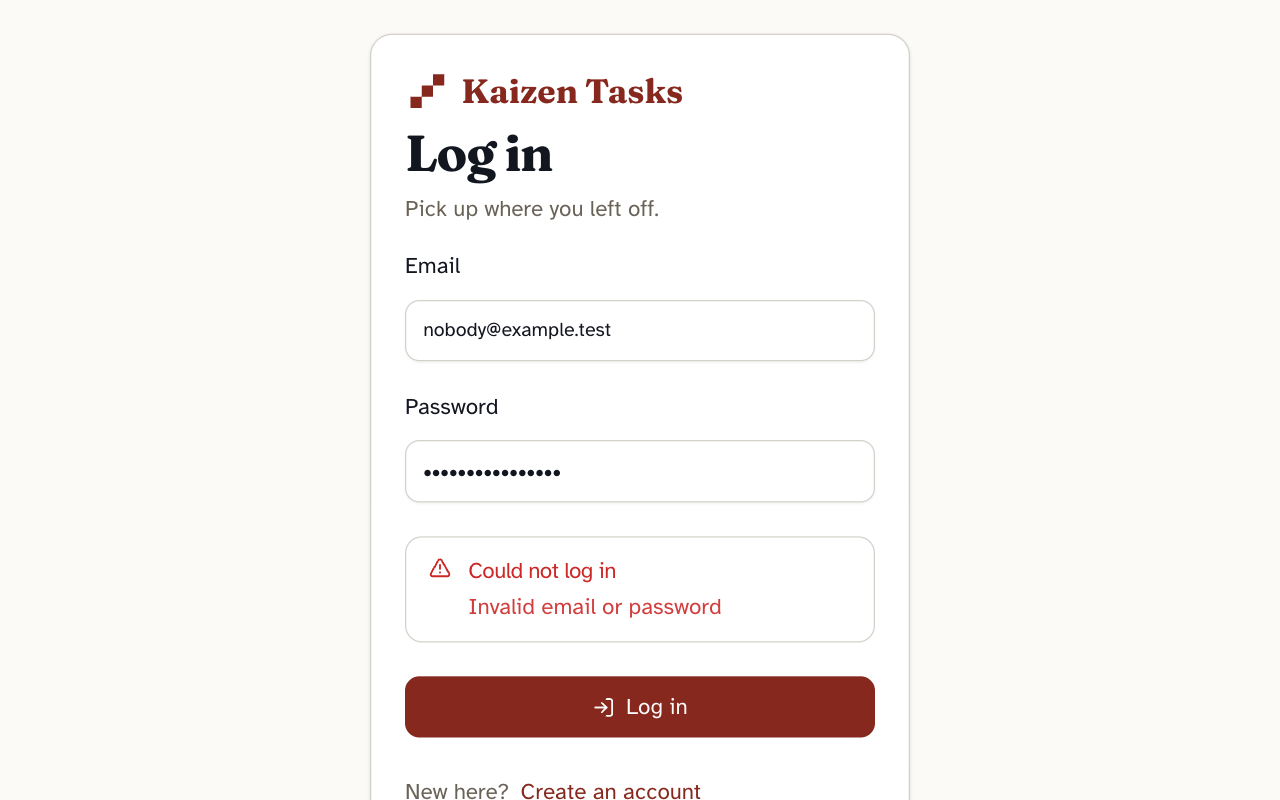
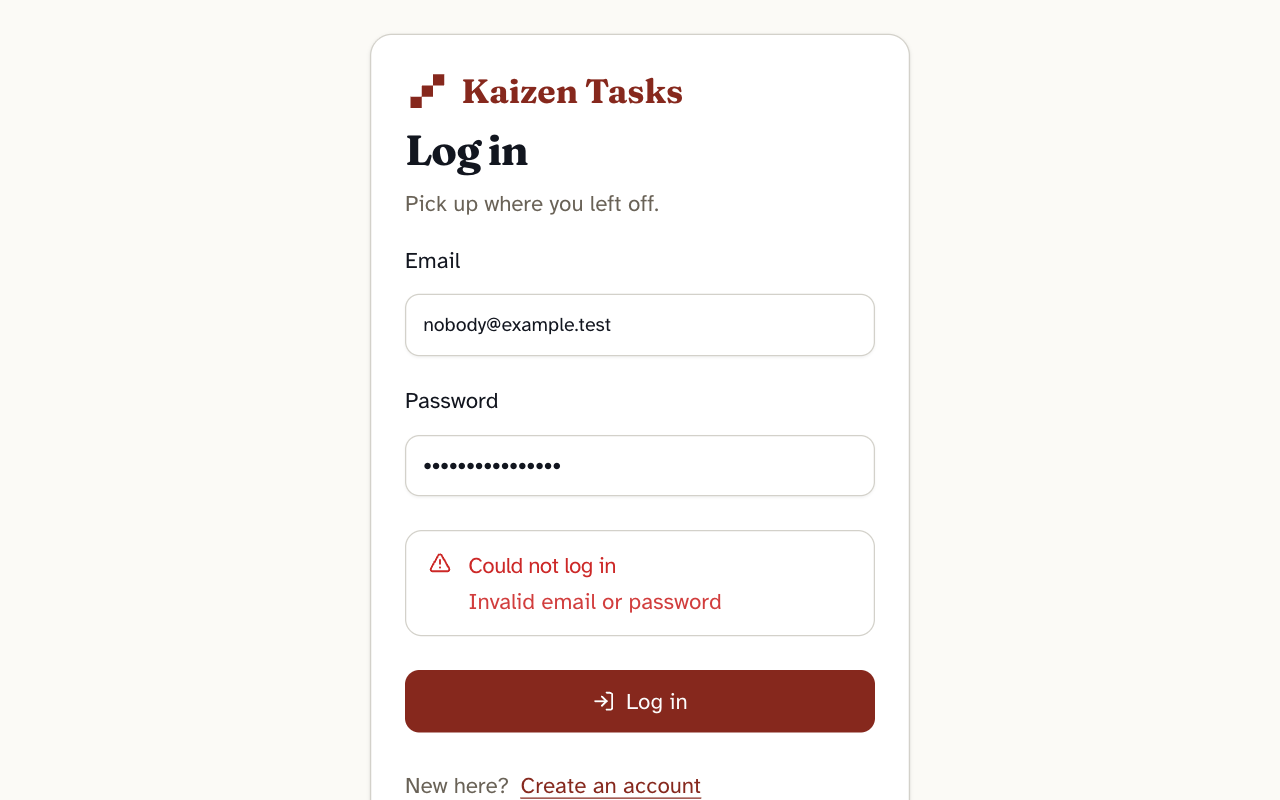
auth: size the card heading on the h1, keep the register submit in the fold
With a bare h1 the heading took text-4xl from globals.css, "Create your
account" wrapped to two lines and the register submit dropped below the
1024x640 fold PR #26 had kept it inside (14 CSS px to spare). The h1 now
carries text-3xl itself, the size the cards had; face, weight and
tracking still come from globals.css, CardTitle takes no className, and
card.tsx stays the CLI's. docs/ui-conventions.md gains the sentence that
allows a narrow card to size its heading on the h1. Measured again:
one line on both screens, register submit bottom at 627 of 640.
tests/projector-rules.test.ts pins `<CardTitle>` bare with an h1 inside.
Screenshots recaptured.

diff --git a/tests/projector-rules.test.ts b/tests/projector-rules.test.ts
@@ -43,13 +43,14 @@ describe("projector rules", () => {
   it("keeps card.tsx the CLI's, with a contract heading as a real h1 inside CardTitle", () => {
     // The Surfaces rule: card.tsx has no asChild and gets none, because a local Slot would be lost
     // to the next `npx shadcn@latest add card --overwrite`. A heading the selector contract pins
-    // is `<CardTitle><h1>…</h1></CardTitle>`, with no className on either: the h1 takes the
-    // page-heading type globals.css gives every h1, and CardTitle only places it.
+    // is `<CardTitle><h1>…</h1></CardTitle>`, with no className on CardTitle: the h1 takes the
+    // page-heading face and weight globals.css gives every h1 (a narrow card may size it on the
+    // h1 itself), and CardTitle only places it.
     const card = read("src/components/ui/card.tsx");
     expect(card).not.toContain("asChild");
     expect(card).not.toContain("Slot");
     for (const page of ["src/features/auth/LoginPage.tsx", "src/features/auth/RegisterPage.tsx"]) {
-      expect(read(page), page).toMatch(/<CardTitle>\s*<h1>/);
+      expect(read(page), page).toMatch(/<CardTitle>\s*<h1[\s>]/);
     }
   });
 });

diff --git a/src/features/auth/RegisterPage.tsx b/src/features/auth/RegisterPage.tsx
@@ -42,8 +42,10 @@ export function RegisterPage() {
               <KaizenMark />
               <span className="font-display text-2xl font-bold">Kaizen Tasks</span>
             </div>
+            {/* text-3xl on the h1 (face, weight and tracking still come from globals.css) keeps
+                the heading on one line and the submit inside the 1024x640 fold. */}
             <CardTitle>
-              <h1>Create your account</h1>
+              <h1 className="text-3xl">Create your account</h1>
             </CardTitle>
             <CardDescription>Big tasks, broken into steps you choose.</CardDescription>
           </CardHeader>

diff --git a/src/features/auth/LoginPage.tsx b/src/features/auth/LoginPage.tsx
@@ -39,8 +39,9 @@ export function LoginPage() {
               <KaizenMark />
               <span className="font-display text-2xl font-bold">Kaizen Tasks</span>
             </div>
+            {/* Sized on the h1 itself, as on the register card, so the two headings match. */}
             <CardTitle>
-              <h1>Log in</h1>
+              <h1 className="text-3xl">Log in</h1>
             </CardTitle>
             <CardDescription>Pick up where you left off.</CardDescription>
           </CardHeader>

diff --git a/CHANGELOG.md b/CHANGELOG.md
@@ -18,7 +18,7 @@ The format is based on [Keep a Changelog](https://keepachangelog.com/en/1.1.0/),
 - The Tags page on shadcn (ui-rework, tags): the list is a `Table` named "Your tags" whose rows are named by the tag, each with a round outline swatch button that opens the palette, the palette colour's name as an outline `Badge` beside it (`paletteName` in `src/lib/tag-palette.ts`, so hue is never the only signal), the name editing in place behind its pencil, and a square outline delete button in a non-wrapping last column. The palette is a shadcn `RadioGroup` of swatch items: Radix owns the roving focus and the arrow keys (Home and End now move focus without checking, as a native radio group does), the chosen swatch carries a check mark and a foreground border, and `RadioGroupItem` accepts children as its indicator so a caller can draw that mark. The create form is a `Card` ("New tag") holding the Name `Field`, a `FieldSet` whose legend "Color" names the radio group, and a "Create tag" button with a plus that turns into a spinner while it saves. Loading is three skeleton rows in the table's shape behind a "Loading tags" status, empty is an `Empty` with the same sentence as before, and a failed load is a destructive `Alert` ("Could not load tags", the API message) with a "Try again" button. New screenshot scenario `tags`. From this PR's review, `docs/ui-conventions.md` gains two shared rules: a pending button hides its `Spinner` from the accessibility tree (`aria-hidden="true"`) so its name never changes, and a `Card` that must be a form, list item or section is wrapped in that element, never given `asChild`. From the second review round, the reading primitives ship at the projector size once: `Table` (and `TableCaption`), `Alert` and `AlertDescription`, `CardDescription`, `EmptyDescription` and `EmptyContent` move their base from `text-sm` to `text-base`, as `Badge` already had, pinned by `tests/projector-scale.test.tsx`; the Tags page drops its six per-call `text-base` overrides and the remaining area PRs need none.
 - The Request page on shadcn (ui-rework, feature-request): "Requests so far" is a `Table` with five aligned columns (#, the request with its triage scores as chips under the title, stage, readiness, the GitHub link as an outline button in a non-wrapping last cell) and two named groups, Open and Closed; every stage is a visible `Badge` variant with its own icon, loading is `Skeleton` rows, nothing yet is an `Empty`, a failure is a destructive `Alert` with "Try again". The interview's two panels are `Card`s: the transcript scrolls inside a `ScrollArea` fixed at 40vh, with its scrollbar always drawn, and follows the newest turn, the answer box is a `Field` with a visible "Your answer" label and the keyboard contract as its hint, "Your request" has a visible title and its readiness score opens a `Popover` with the three sub-scores and the assistant's reasons instead of a hover title, empty fields are "Not filled in yet" chips, and the footer says why "Review and file" is disabled. The filed confirmation is a `Card` with "Open the issue" and "File another" as buttons, the unavailable and failed-start branches are `Alert`s, the form wraps its fields in a `FieldGroup`, keeps a "Nothing was filed" `Alert` with the API's message after a failed filing, and shows a `Spinner` on "Send request" while GitHub answers; every action control carries an icon. An anchor in Button clothes (`Button asChild`) shares the 44px min-height in `globals.css`. Screenshot scenarios `requests-so-far` and `request-feature-form` are new; `request-feature` captures the interview.
 - The task list on shadcn (ui-rework, tasks-list): each row is a `Card` on the `listitem` the smoke test names by the title, laid out as a grid whose title cell yields (the title truncates) to a rail of progress and AI state that never wraps, so rows keep one height at 125% zoom; the progress bar is the `Progress` primitive at 12 by 128px, says "done of total steps done" for the screen reader and shows nothing for a task with no counted steps yet (no empty bar, no 0/0), on the detail header too; the AI chips are one `Badge` variant per meaning with an icon each (secondary "Thinking" and skipped reasons, default "N suggestions", destructive "Breakdown failed") and a failed breakdown carries its message in a destructive `Alert` on the row's second line with an outline Retry that spins while it runs; the create bar is a `Card` whose title and description fields have visible labels and a hint, "Add description" is an outline button with a plus and "Add task" spins while it saves; the status and tag filters are fieldsets with visible legends, unselected choices are outline buttons, every status has an icon, a pressed tag shows a check beside its `TagSwatch`, and the tag group keeps its place with skeleton pills while tags load and toasts once if they fail; loading is three `Skeleton` rows in the `role="status"` region, empty is an `Empty` ("No tasks" over the sentence other screens copy), the error is a destructive `Alert` ("Could not load tasks") with a "Try again" that carries an icon, and "Load more" spins while the next page loads. The "N suggestions" chip, the one link among the chips, is 44px tall like every other control. New screenshot scenarios: `tasks-rows` seeds three rows through the API; `tasks-failed` rewrites one of them to a failed breakdown in the browser, since the dev API's fake provider never fails.
-- `src/components/ui/card.tsx` is the CLI's file again (`npx shadcn@latest add card --overwrite`, with the `cn` import repointed at `@/lib/cn` and `CardDescription` kept at `text-base`): the hand-added `asChild` on `CardTitle` is gone, as the Surfaces rule in `docs/ui-conventions.md` says it must be. The auth headings are real headings inside `CardTitle` (`<CardTitle><h1>Log in</h1></CardTitle>`), so "Log in" and "Create your account" keep their role and take the page-heading type `globals.css` gives every `h1` (Fraunces, bold, `text-4xl`, the size of "Your tasks") instead of the 3xl semibold that `CardTitle`'s own classes had leaked onto them through `asChild`, so "Create your account" now wraps to two lines in the card; the two pages drop their `CardDescription` `text-base` overrides, which the primitive's base now carries. `tests/projector-rules.test.ts` pins card.tsx free of `asChild` and both pages on that shape; the auth screenshots are recaptured.
+- `src/components/ui/card.tsx` is the CLI's file again (`npx shadcn@latest add card --overwrite`, with the `cn` import repointed at `@/lib/cn` and `CardDescription` kept at `text-base`): the hand-added `asChild` on `CardTitle` is gone, as the Surfaces rule in `docs/ui-conventions.md` says it must be. The auth headings are real headings inside `CardTitle` (`<CardTitle><h1>Log in</h1></CardTitle>`), so "Log in" and "Create your account" keep their role and take the page-heading type `globals.css` gives every `h1` (Fraunces, bold, tight tracking) with `text-3xl` on the `h1` itself, the size the cards had, so "Create your account" stays on one line and the register submit stays inside the 1024x640 fold; the weight moves from the semibold `CardTitle` had leaked through `asChild` to the bold every other heading has. `docs/ui-conventions.md` says a narrow card may size the heading on the `h1`, never through `CardTitle`; the two pages drop their `CardDescription` `text-base` overrides, which the primitive's base now carries. `tests/projector-rules.test.ts` pins card.tsx free of `asChild` and both pages on that shape; the auth screenshots are recaptured.
 
 ## [1.4.0] - 2026-09-11
 

diff --git a/docs/ui-conventions.md b/docs/ui-conventions.md
@@ -70,7 +70,10 @@ When a card must be a form, a list item or a named region, wrap it in that eleme
 `<section aria-label="Your request"><Card>…</Card></section>`. The accessibility tree is the one
 `asChild` would give. A contract heading inside a card is a real heading inside `CardTitle`:
 `<CardTitle><h1>Log in</h1></CardTitle>`. It keeps the `h1`/`h2` type `globals.css` gives every page
-heading and gains the role and name the selector contract pins; `CardTitle` only places it.
+heading and gains the role and name the selector contract pins; `CardTitle` only places it. A
+narrow card may size that heading on the `h1` itself (`<h1 className="text-3xl">` keeps "Create
+your account" on one line and the register submit inside the 1024x640 fold); the face, weight and
+tracking still come from `globals.css`, and `CardTitle` takes no className for it.
 
 New header controls match the ones beside them: the same `Button` variants and sizes as
 `src/app/layout.tsx` uses today (`variant="outline"` for an action such as "Log out"), the same gap,
